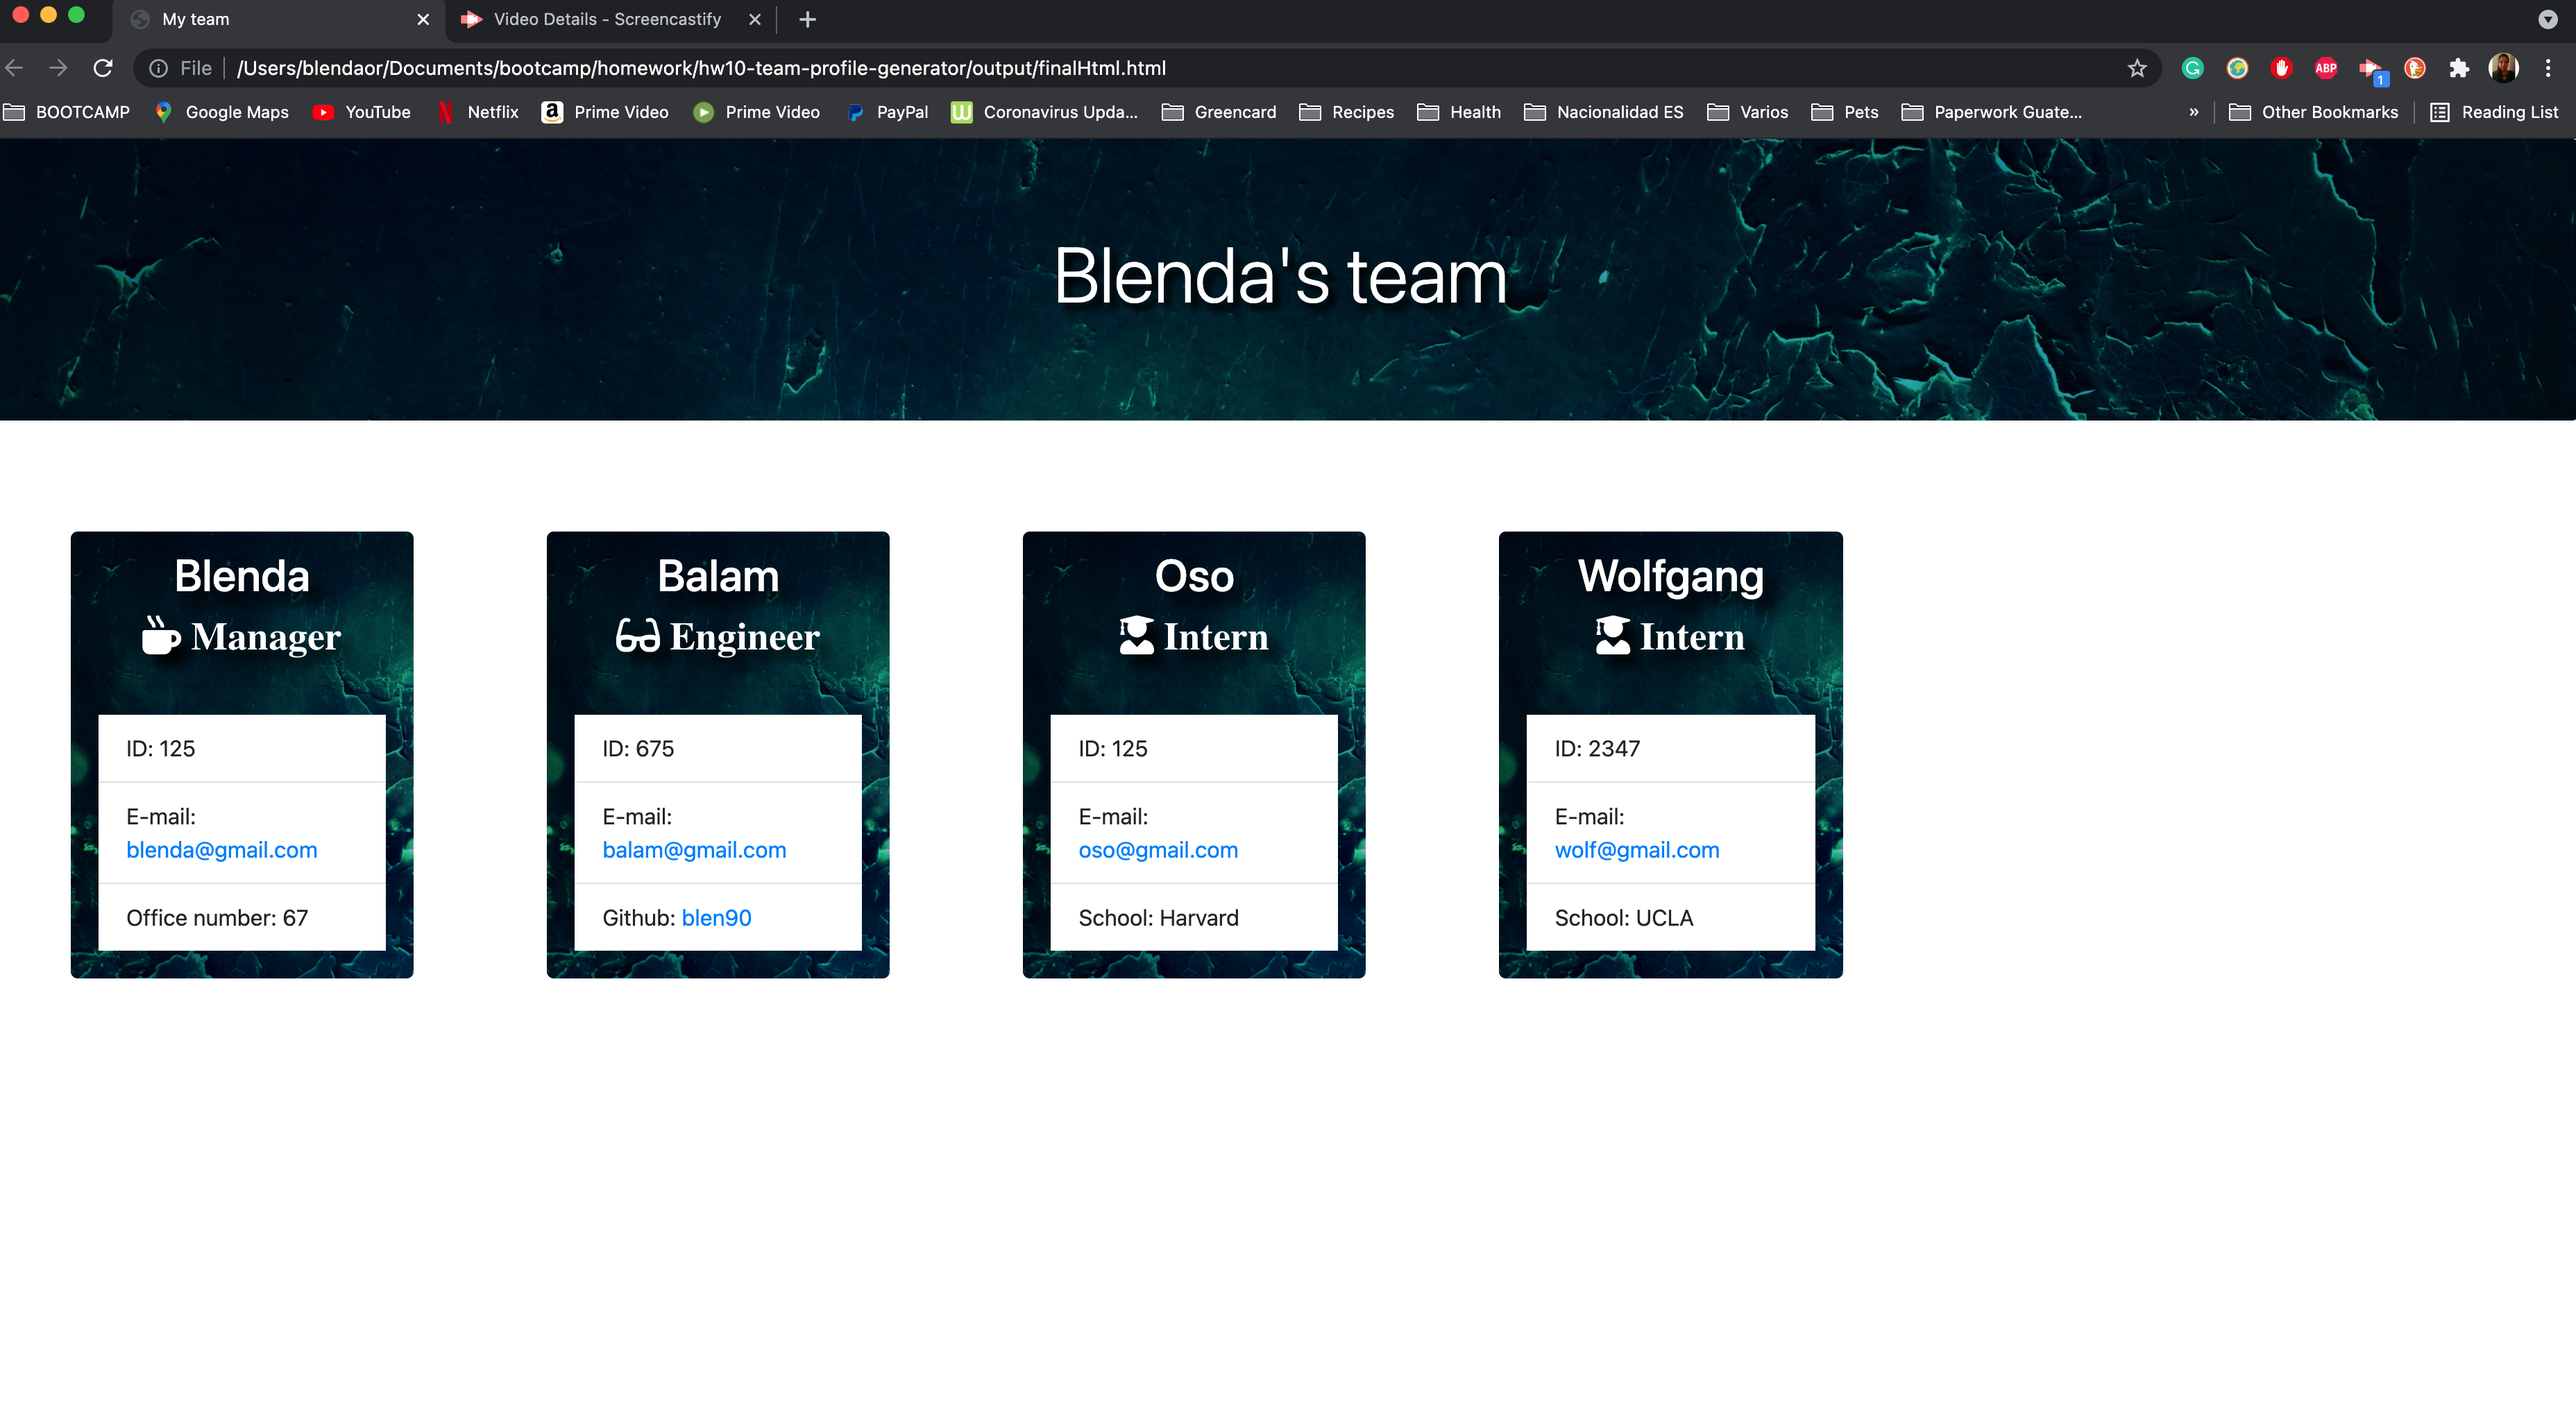
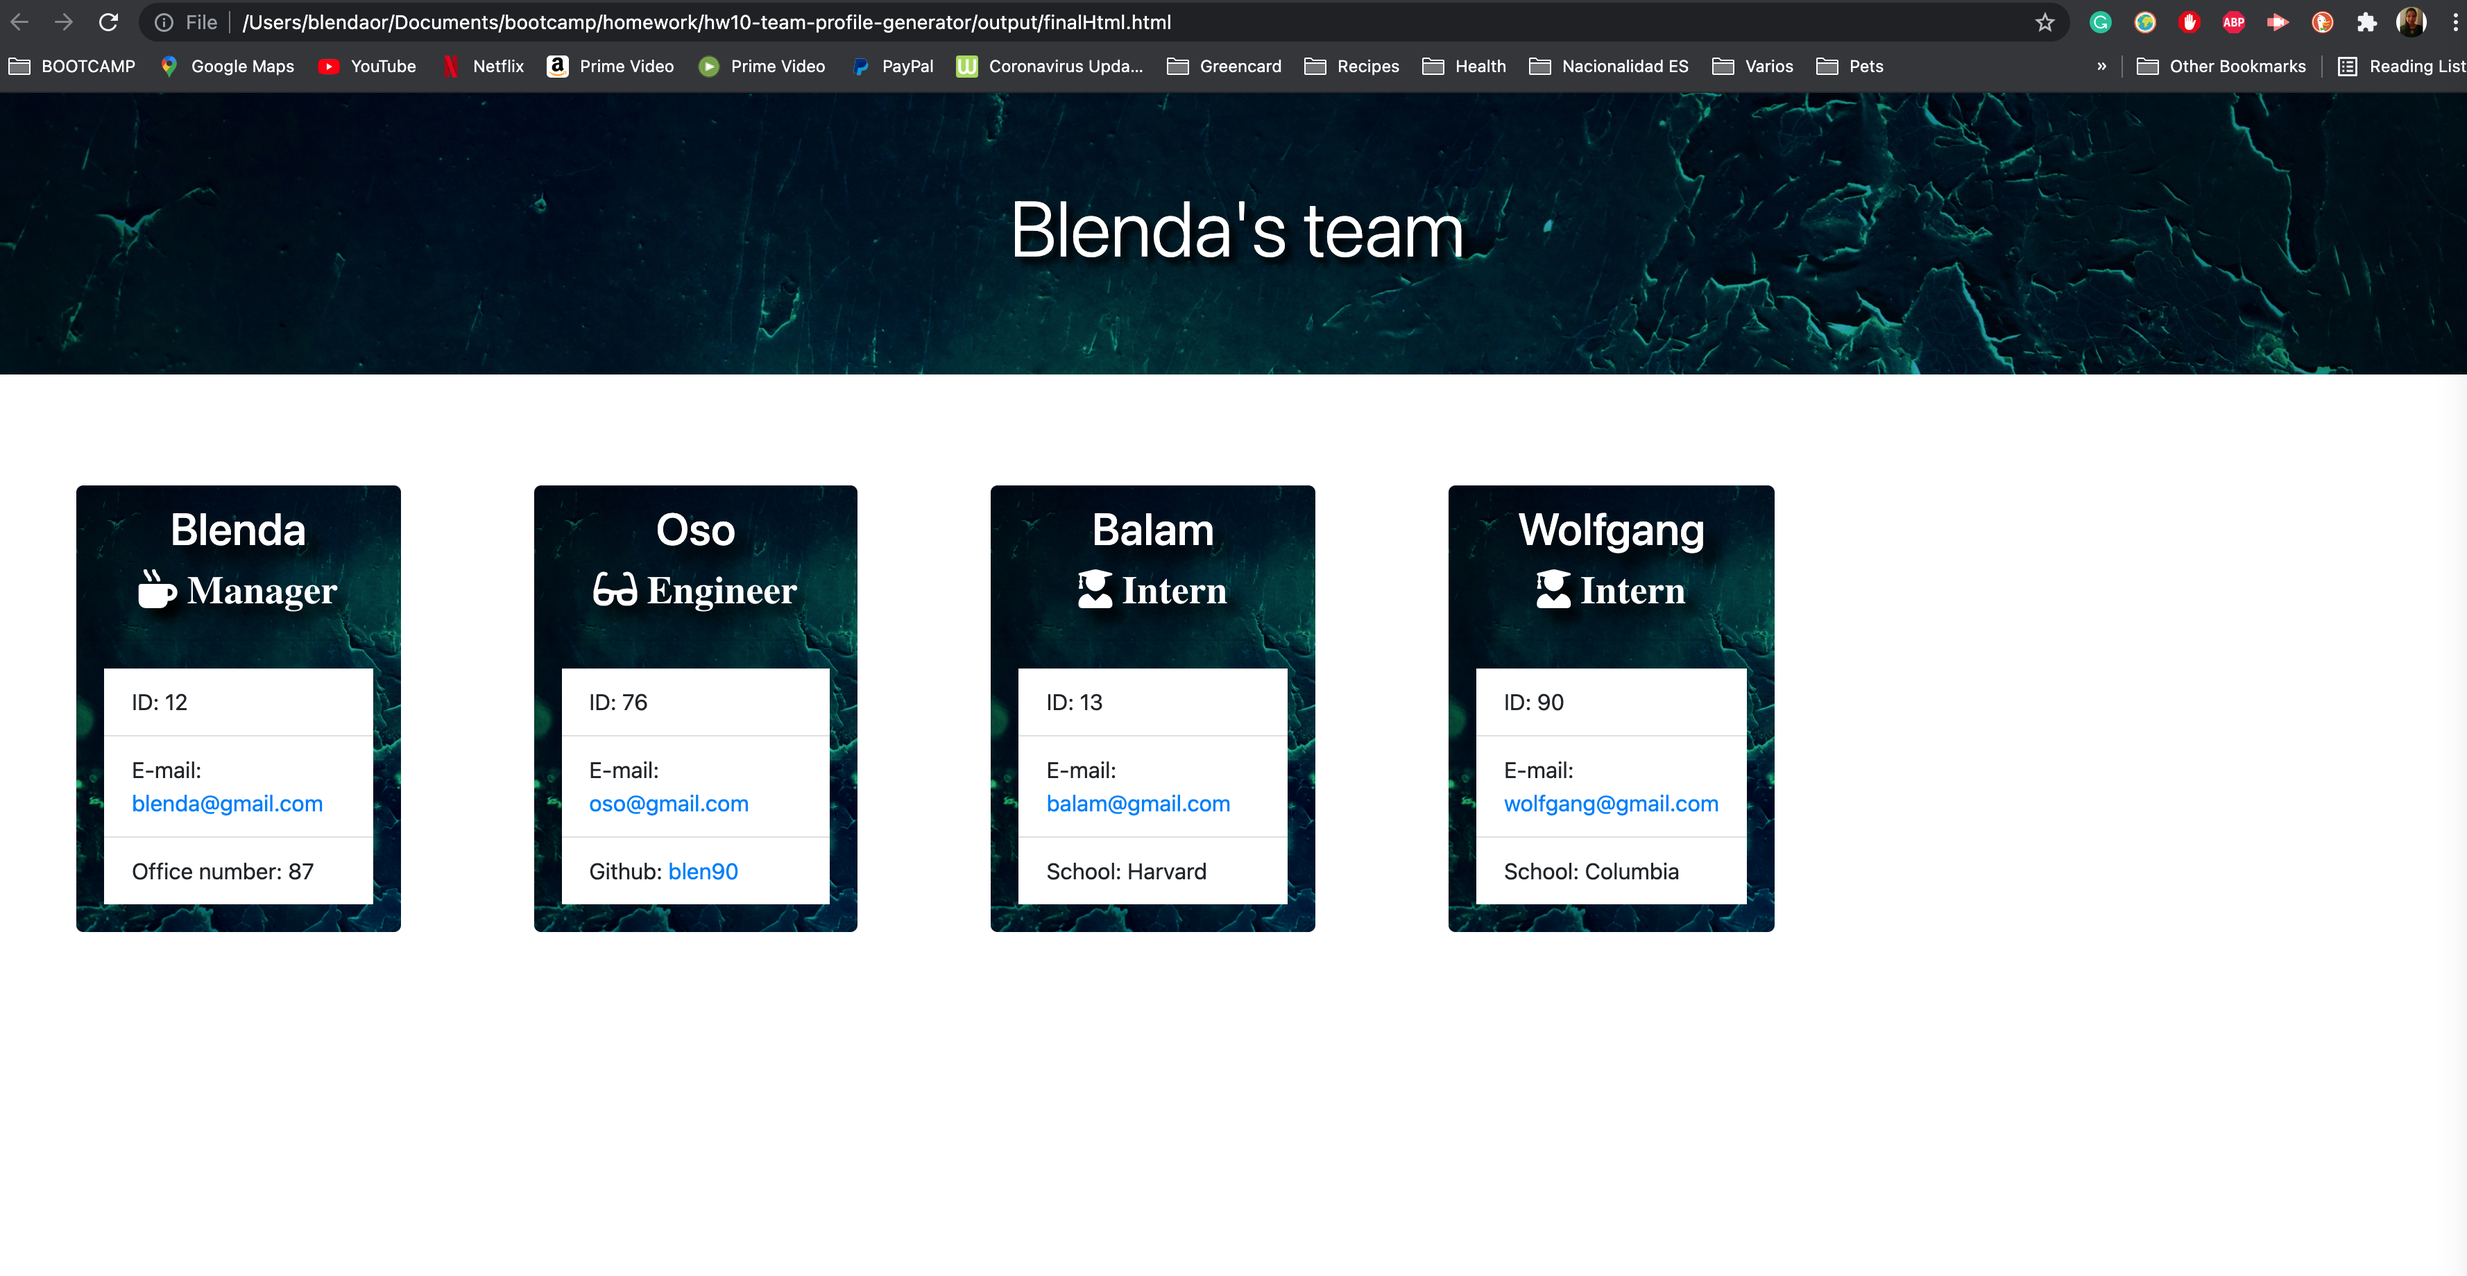
changed html file and screenshot in README file

diff --git a/output/finalHtml.html b/output/finalHtml.html
@@ -20,18 +20,60 @@
         <div class="team-cards col-9 d-flex justify-content-center">
                 <div class="team-card m-5" style="width: 18rem;">
                     <div class="card-header text-center">
-                        <h2 class="card-name">blenda</h2>
+                        <h2 class="card-name">Blenda</h2>
+                        <h3 class="card-position"><i class="fas fa-mug-hot">  Manager</i></h3>
+                    </div>
+                    <div class="card-body">
+                        <ul class="list-group list-group-flush">
+                            <li class="list-group-item">ID: 12</li>
+                            <li class="list-group-item">E-mail: <a href="mailto:blenda@gmail.com">blenda@gmail.com</a></li>
+                            <li class="list-group-item">Office number: 87</li>
+                        </ul>
+                    </div>
+                </div>
+            
+                <div class="team-card m-5" style="width: 18rem;">
+                    <div class="card-header text-center">
+                        <h2 class="card-name">Oso</h2>
                         <h3 class="card-position"><i class="fas fa-glasses">  Engineer</i></h3>
                     </div>
                     <div class="card-body">
                         <ul class="list-group list-group-flush">
-                            <li class="list-group-item">ID: 123</li>
-                            <li class="list-group-item">E-mail: <a href="mailto:blenda@gmail.com">blenda@gmail.com</a></li>
+                            <li class="list-group-item">ID: 76</li>
+                            <li class="list-group-item">E-mail: <a href="mailto:oso@gmail.com">oso@gmail.com</a></li>
                             <li class="list-group-item">Github: <a href="https://github.com/blen90" target="_blank">blen90</a></li>
                         </ul>
                      </div>
                 </div>
     
+                <div class="team-card m-5" style="width: 18rem;">
+                    <div class="card-header text-center">
+                        <h2 class="card-name">Balam</h2>
+                        <h3 class="card-position"><i class="fas fa-user-graduate">  Intern</i></h3>
+                    </div>
+                    <div class="card-body">
+                        <ul class="list-group list-group-flush">
+                            <li class="list-group-item">ID: 13</li>
+                            <li class="list-group-item">E-mail: <a href="mailto:balam@gmail.com">balam@gmail.com</a></li>
+                            <li class="list-group-item">School: Harvard</li>
+                         </ul>
+                    </div>
+                </div>
+            
+                <div class="team-card m-5" style="width: 18rem;">
+                    <div class="card-header text-center">
+                        <h2 class="card-name">Wolfgang</h2>
+                        <h3 class="card-position"><i class="fas fa-user-graduate">  Intern</i></h3>
+                    </div>
+                    <div class="card-body">
+                        <ul class="list-group list-group-flush">
+                            <li class="list-group-item">ID: 90</li>
+                            <li class="list-group-item">E-mail: <a href="mailto:wolfgang@gmail.com">wolfgang@gmail.com</a></li>
+                            <li class="list-group-item">School: Columbia</li>
+                         </ul>
+                    </div>
+                </div>
+            
     </body>
     </html>
     
